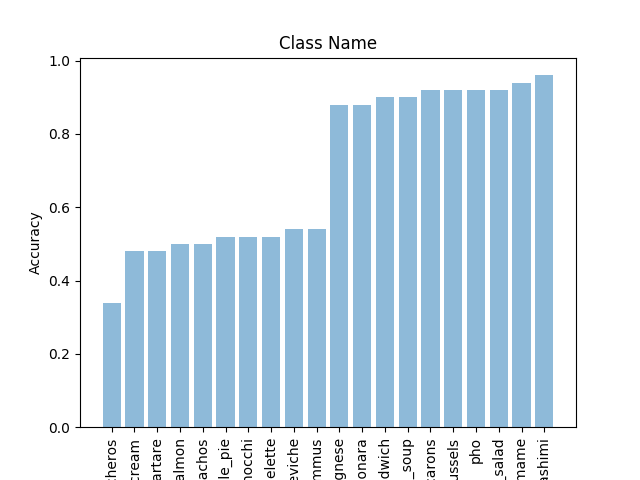
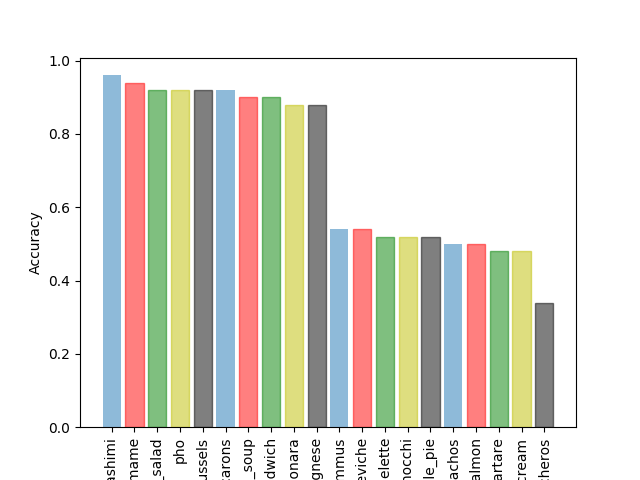
Color coding added

diff --git a/dev/load_weights.py b/dev/load_weights.py
@@ -145,8 +145,8 @@ def main(returnModel=False):
     # plt.title('Class Name')
 
     # plt.show()
-    sorted_classes = [x for _, x in sorted(zip(accuracy_by_class, classes))]
-    accuracy_by_class.sort()
+    sorted_classes = [x for _, x in sorted(zip(accuracy_by_class, classes), reverse=True)]
+    accuracy_by_class = sorted(accuracy_by_class, reverse=True)
     interested_classes = []
     interested_classes.extend(sorted_classes[:10])
     interested_classes.extend(sorted_classes[-10:])
@@ -156,7 +156,7 @@ def main(returnModel=False):
 
     y_pos = np.arange(len(accuracy_by_class_new))
     # plt.bar(y_pos[:5], accuracy_by_class[:5], align='center', alpha=0.5)
-    barlist = plt.bar(y_pos, accuracy_by_class, align='center', alpha=0.5)
+    barlist = plt.bar(y_pos, accuracy_by_class_new, align='center', alpha=0.5)
     for barNum in range(len(barlist)):
         if barNum % 5 == 1:
             barlist[barNum].set_color('r')
@@ -171,7 +171,7 @@ def main(returnModel=False):
     plt.xticks(rotation=90)
     plt.ylabel('Accuracy')
 
-    plt.show()
+    # plt.show()
     plt.savefig("top_and_bottom_10.png")
     
     print("Cacluated Accuracy =", accuracy)
